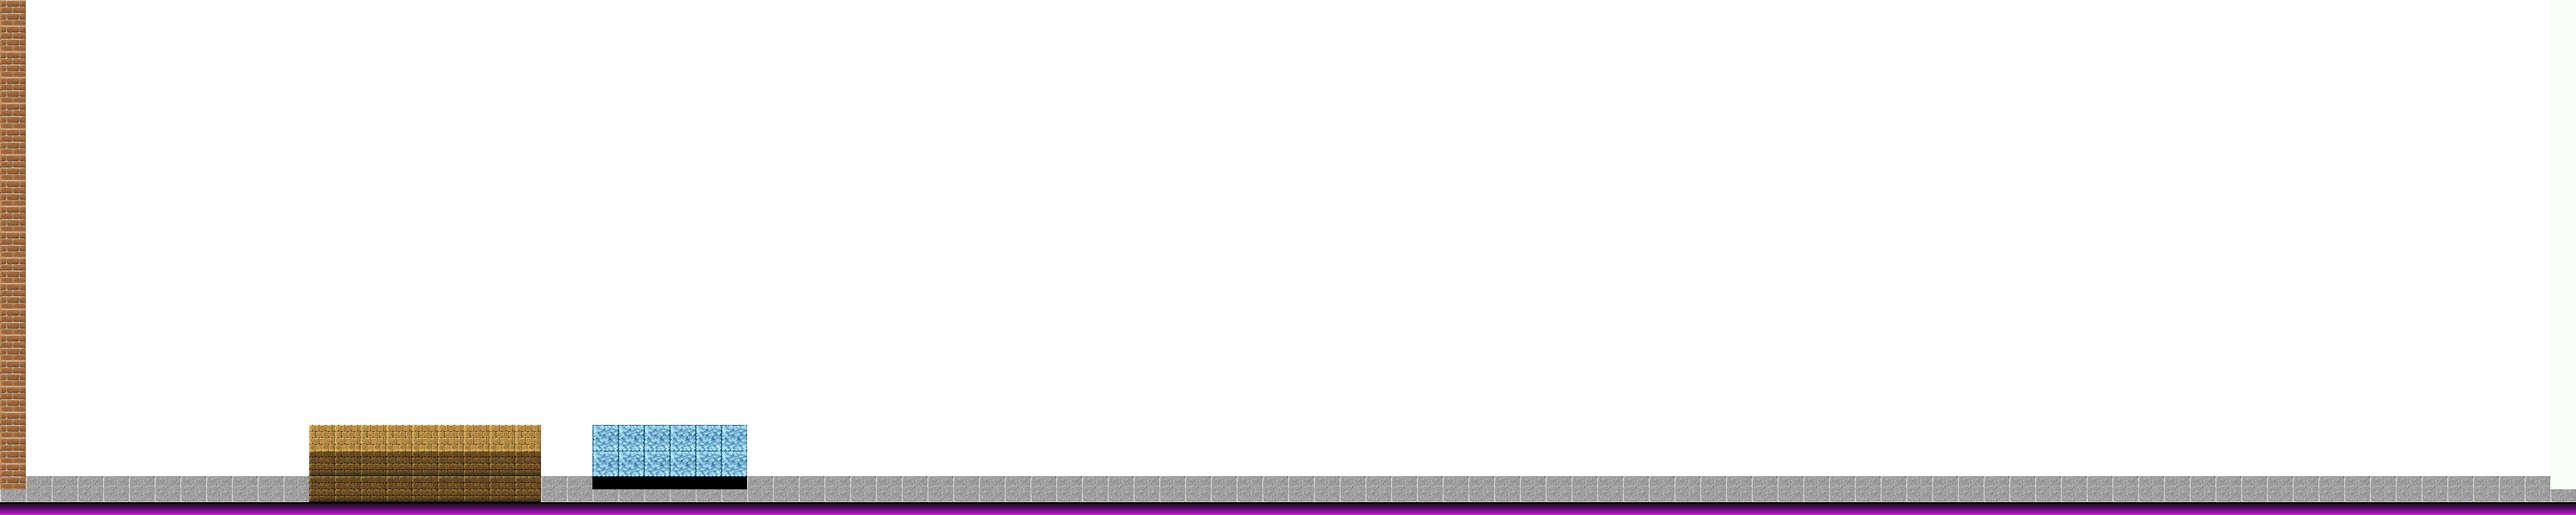
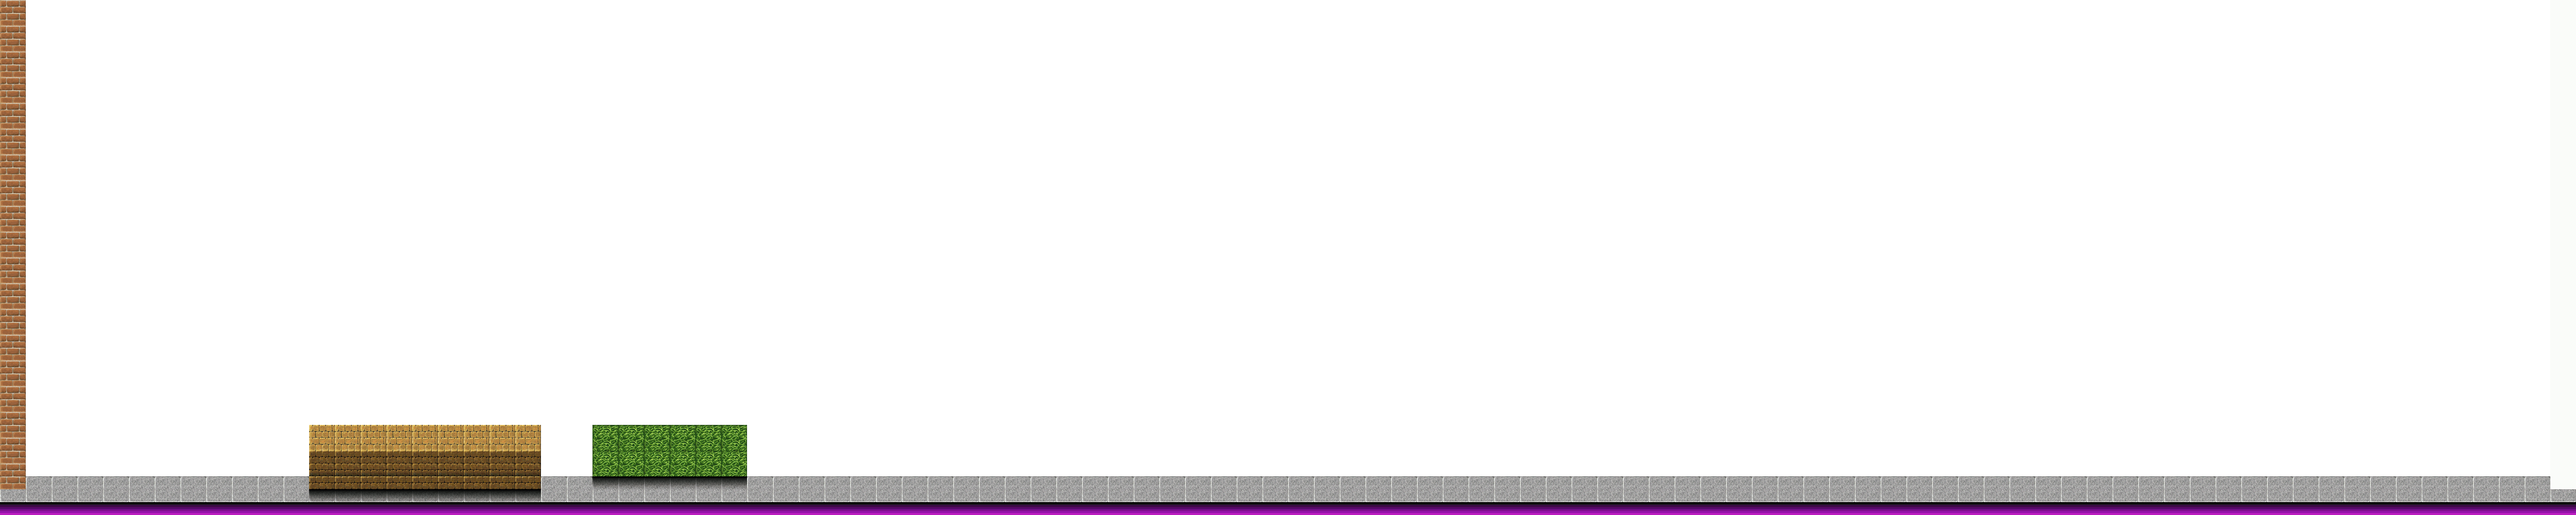
Level editor: improved shadow drawing under the elevated obstacle sprites, so as the elevated obstacles drawing themselves.

Changed region(s): [[0.1248, 0.806, 0.312, 0.992]]

diff --git a/level_editor.py b/level_editor.py
@@ -1477,7 +1477,8 @@ class World(object):
                 if key in self.obs_settings.keys():
                     if 'sprite' in self.obs_settings[key].keys():
                         if self.obs_settings[key]['sprite elevated']:
-                            elevation = self.default_snap_mesh_size // 2
+                            elevation = int(self.default_snap_mesh_size * 1.5)
+                            # elevation = self.default_snap_mesh_size // 2
                         # Create a surface which corresponds the size of current obstacle representation:
                         # obs_surf = pygame.Surface((obs.rectangle.width, obs.rectangle.height))
                         obs_surf = pygame.Surface((obs.rectangle.width, obs.rectangle.height + elevation)).convert_alpha()
@@ -1490,15 +1491,14 @@ class World(object):
                         # Get size of the new scaled sprite:
                         sz = sprite.get_size()
 
-                        for y in range(0, obs.rectangle.h, sz[1]):
+                        for y in range(0, obs.rectangle.h + elevation, sz[1]):
                             for x in range(0, obs.rectangle.w, sz[0]):
                                 obs_surf.blit(sprite, (x,y))
-
 
                         # Draw shadow under the elevated sprite:
                         if elevation != 0:
                             color_alpha = 255
-                            for dy in range(obs_surf.get_height() - elevation, obs_surf.get_height(), 1):
+                            for dy in range(obs_surf.get_height() - int(elevation * 0.35), obs_surf.get_height(), 1):
                             # for dy in range(y + obs.rectangle.h, obs.rectangle.height + elevation, 1):
                                 pygame.draw.rect(obs_surf, (0,0,0,color_alpha), (0,dy, obs.rectangle.w,1))
                                 color_alpha -= 10

diff --git a/locations.py b/locations.py
@@ -20,7 +20,7 @@ locations = {
                 ((0, 0), (50, 950), 20),  #20
                 ((600, 850), (450, 50), 59),  #59
                 ((1150, 850), (300, 100), 60),  #60
-                ((600, 900), (450, 75), 61),  #61
+                ((600, 900), (450, 50), 62),  #62
                   ), # OBSTACLE RECTANGLES SECTION END
                 'settings': {
                     17: {
@@ -91,7 +91,7 @@ locations = {
                         'active': False,
                         'actions': {0: []},
                   },
-                    61: {
+                    62: {
                         'sprite': 13,
                         'sprite elevated': True,
                         'ghost': False,
